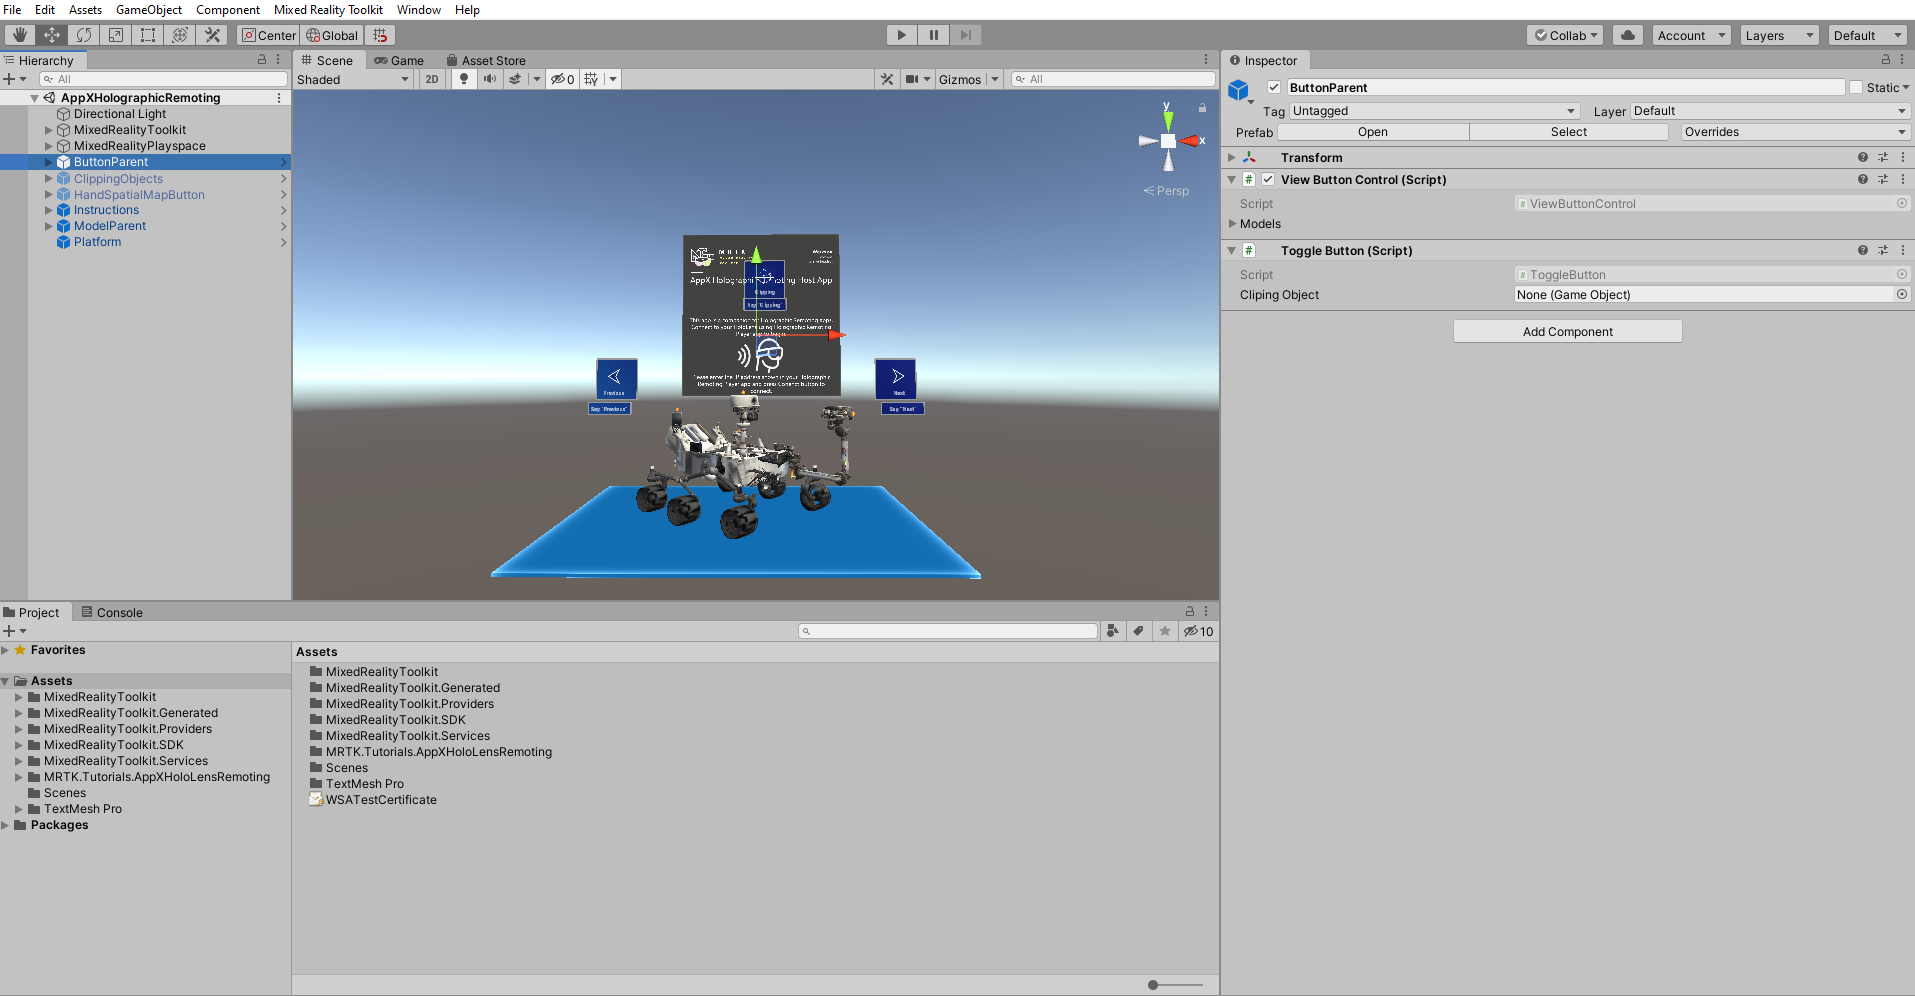
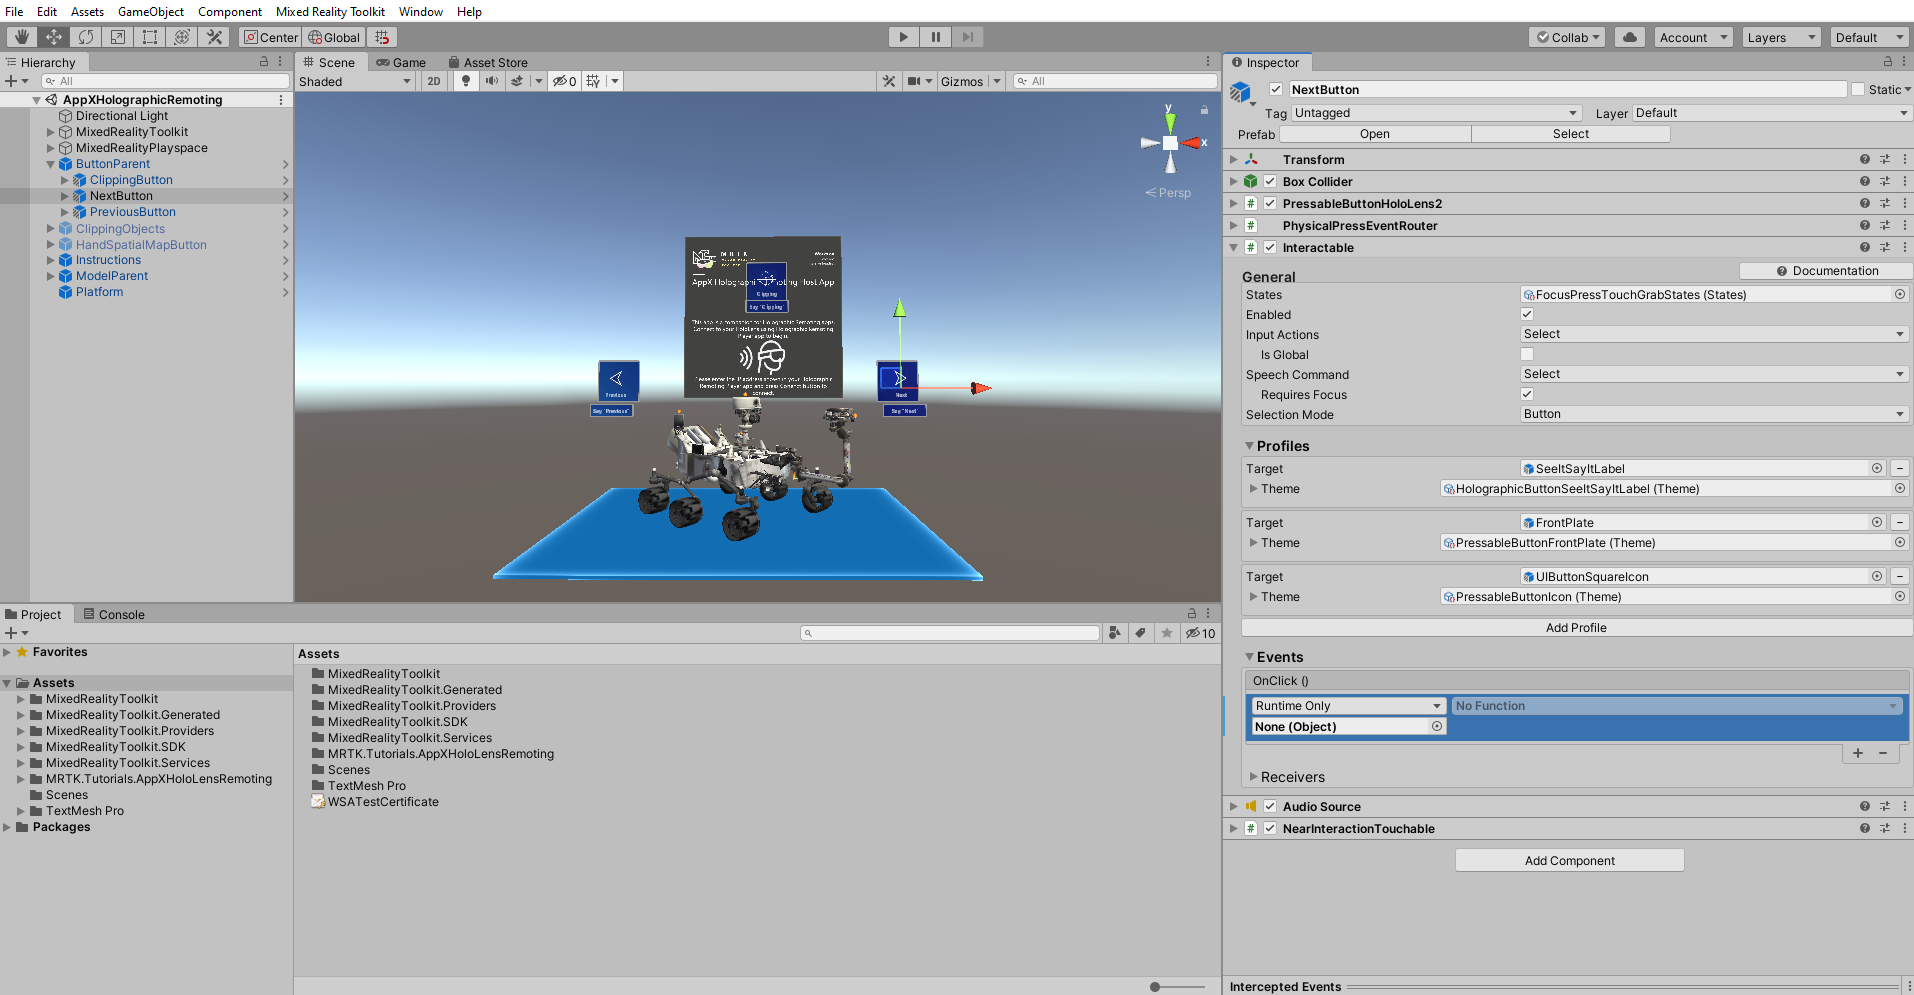
Chapter 1 correction done

diff --git a/mixed-reality-docs/mr-learning-appx-01.md b/mixed-reality-docs/mr-learning-appx-01.md
@@ -68,7 +68,7 @@ After importing the tutorial assets, your Project window should look similar to 
 
 ![mr-learning-appx](images/mr-learning-appx/Tutorial1-Section2-Step1-1.png)
 
-## Creating and preparing the scene
+## Configure and preparing the scene
 
 In this section, you will prepare the scene by adding some of the tutorial prefabs.
 
@@ -99,21 +99,17 @@ In this section, you will add scripts into the scene to create button events tha
 
 ### 1. Configuring the Interactable (Script) component
 
-In the Hierarchy window, select the **ButtonParent** object and in the Inspector window, notice two scripts are attached to it, one **View Button Control (Script)** to change the 3D model in the scene and another **Toggle Button (Script)** to enable and disable the ClippingObjects object.
+In the Hierarchy window, expand the **ButtonParent** object and select the **NextButton**. In the Inspector window, locate the **Interactable (Script)** component and click on **+** icon under **OnClick()** event.
 
 ![mr-learning-appx](images/mr-learning-appx/Tutorial1-Section4-Step1-1.png)
 
-In the Hierarchy window, expand the ButtonParent object and select the **NextButton**. In the Inspector window, locate the **Interactable (Script)** component and click on **+** icon under **OnClick()** event.
+With the **NextButton** object still selected in the Hierarchy window, click-and-drag the **ButtonParent** object from the Hierarchy window into the empty **None (Object)** field of the event you just added to make the ButtonParent object listen for button click events from this button:
 
 ![mr-learning-appx](images/mr-learning-appx/Tutorial1-Section4-Step1-2.png)
 
-With the **NextButton** object still selected in the Hierarchy window, click-and-drag the **ButtonParent** object from the Hierarchy window into the empty **None (Object)** field of the event you just added to make the ButtonParent object listen for button click events from this button:
-
-![mr-learning-appx](images/mr-learning-appx/Tutorial1-Section4-Step1-3.png)
-
 Click the **No Function** dropdown of the same event, then select **ViewButtonControl** > **NextModel ()** to set the **NextModel ()** function as the action that is triggered when the button pressed events is fired from this button:
 
-![mr-learning-appx](images/mr-learning-appx/Tutorial1-Section4-Step1-4.png)
+![mr-learning-appx](images/mr-learning-appx/Tutorial1-Section4-Step1-3.png)
 
 ### 2. Configuring the remaining buttons
 
@@ -131,9 +127,13 @@ For demonstration, we have provided five different 3D models, expand the ModelPa
 
 With the ButtonParent object still selected in the Hierarchy window, in the Inspector window, locate the **View Button Control (Script)** component and expand the **Models** variable.
 
-In the **Size** field, enter the number of 3D models you would like to have in your scene. In this case, it would be five. It will create fields for adding new 3D models. Drag-and-drop the ModelParent object's child model objects into these fields:
+In the **Size** field, enter the number of 3D models you would like to have in your scene. In this case, it would be six. It will create fields for adding new 3D models.
 
 ![mr-learning-appx](images/mr-learning-appx/Tutorial1-Section4-Step3-1.png)
+
+Drag-and-drop the ModelParent object's child model objects into these fields.
+
+image
 
 Drag-and-drop the  **ClippingObjects** object from the Hierarchy window to the  **Toggle Button (Script)** component **Clipping Object** field.
 
